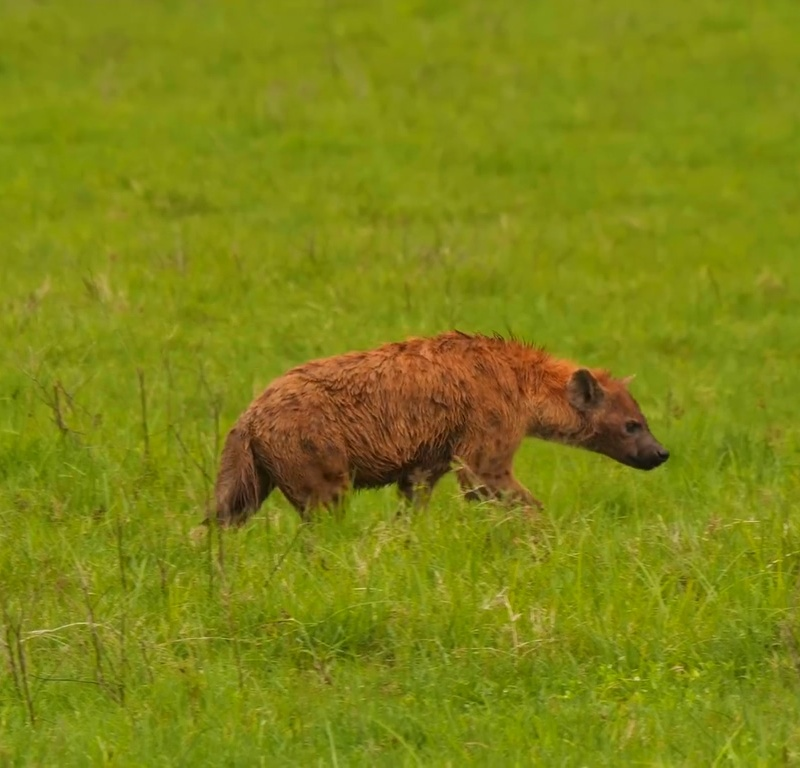
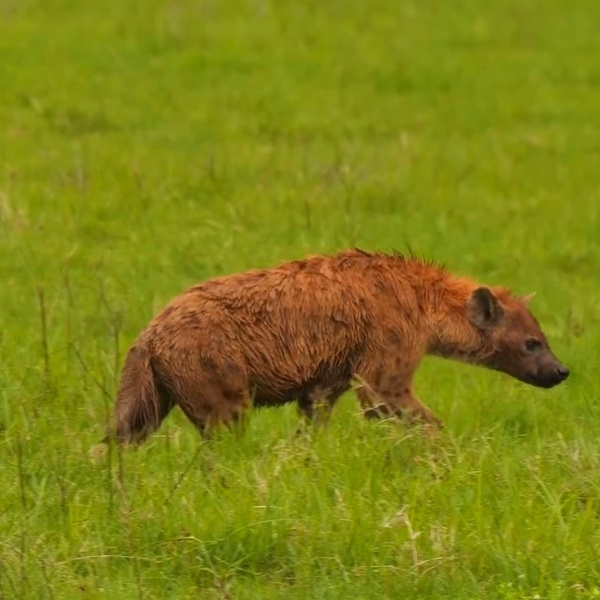
Adds new images for gallery

diff --git a/index.html b/index.html
@@ -115,7 +115,7 @@
             <div class="col-lg-6 wow fadeIn" data-wow-delay="0.5s">
                 <div class="owl-carousel header-carousel">
                     <div class="owl-carousel-item">
-                        <img class="img-fluid" src="img/hyenaroaming.jpg" alt="">
+                        <img class="img-fluid" src="img/hellgatemasaai.jpg" alt="">
                     </div>
                     <div class="owl-carousel-item">
                         <img class="img-fluid" src="img/about.jpg" alt="">
